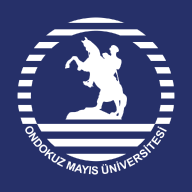
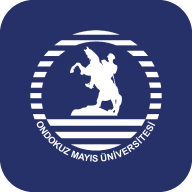
Uygulama ikonları değiştirildi
- İkon değişikliği tamamlandı (Kenarlar yumuşatıldı)

diff --git a/sw.js b/sw.js
@@ -1,4 +1,4 @@
-const CACHE_NAME = "omu-protokol-v2.1.7"; // Her büyük değişiklikte veya ikon değişiminde bu numarayı artır (v5, v6...)
+const CACHE_NAME = "omu-protokol-v2.1.8"; // Her büyük değişiklikte veya ikon değişiminde bu numarayı artır (v5, v6...)
 
 // Kendi sitenin dosyaları (uygulama iskeleti)
 const APP_SHELL = [
